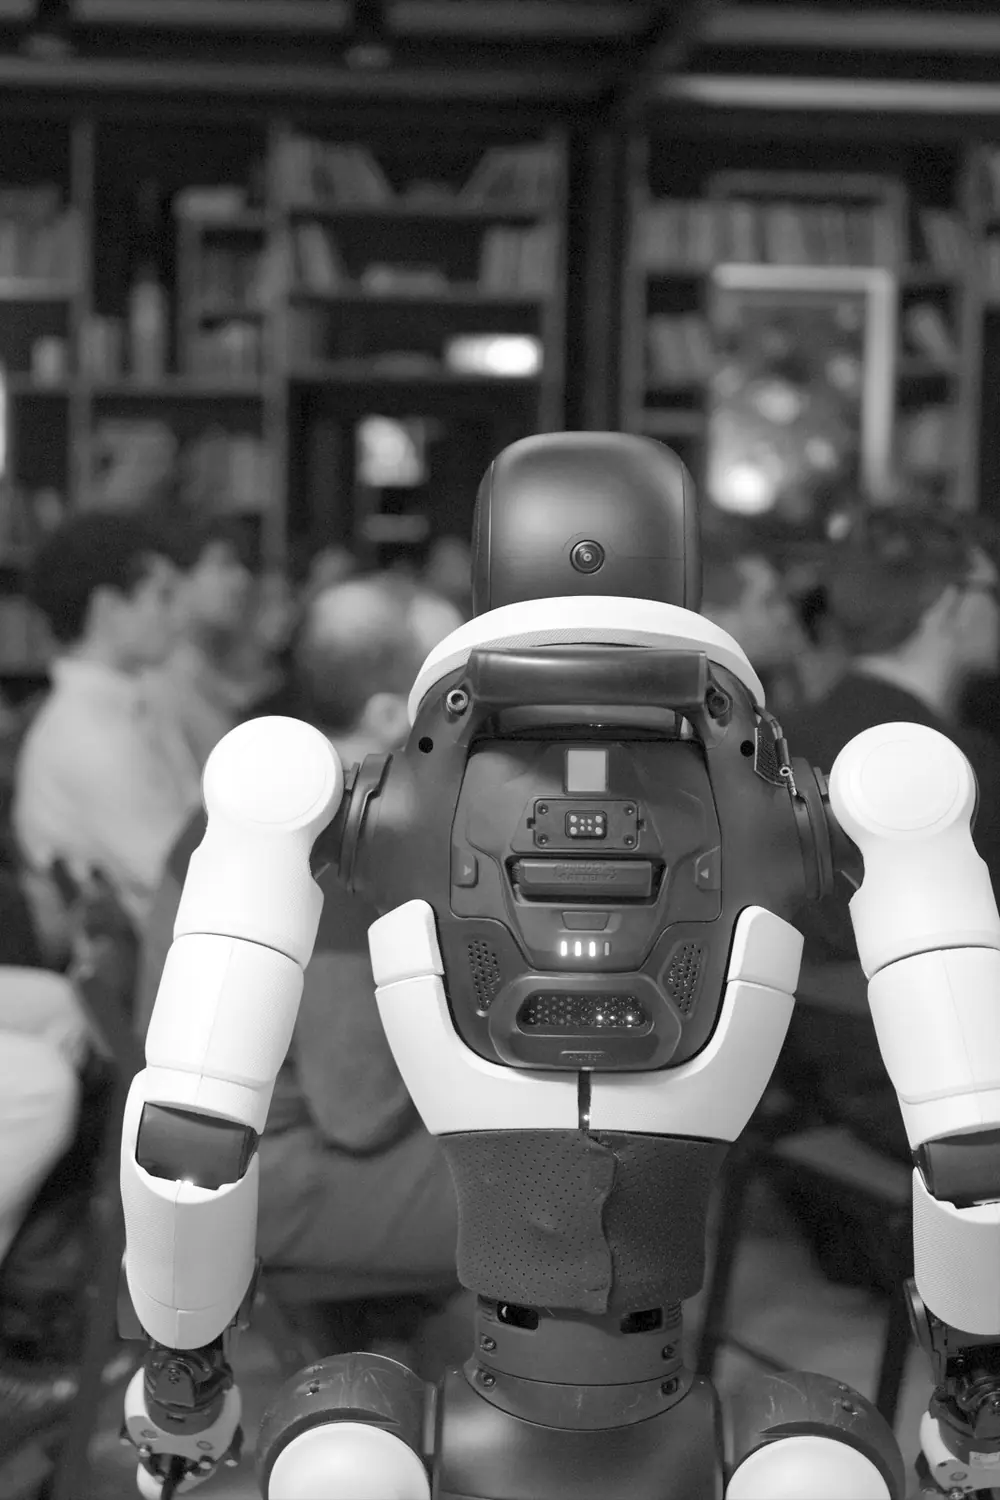
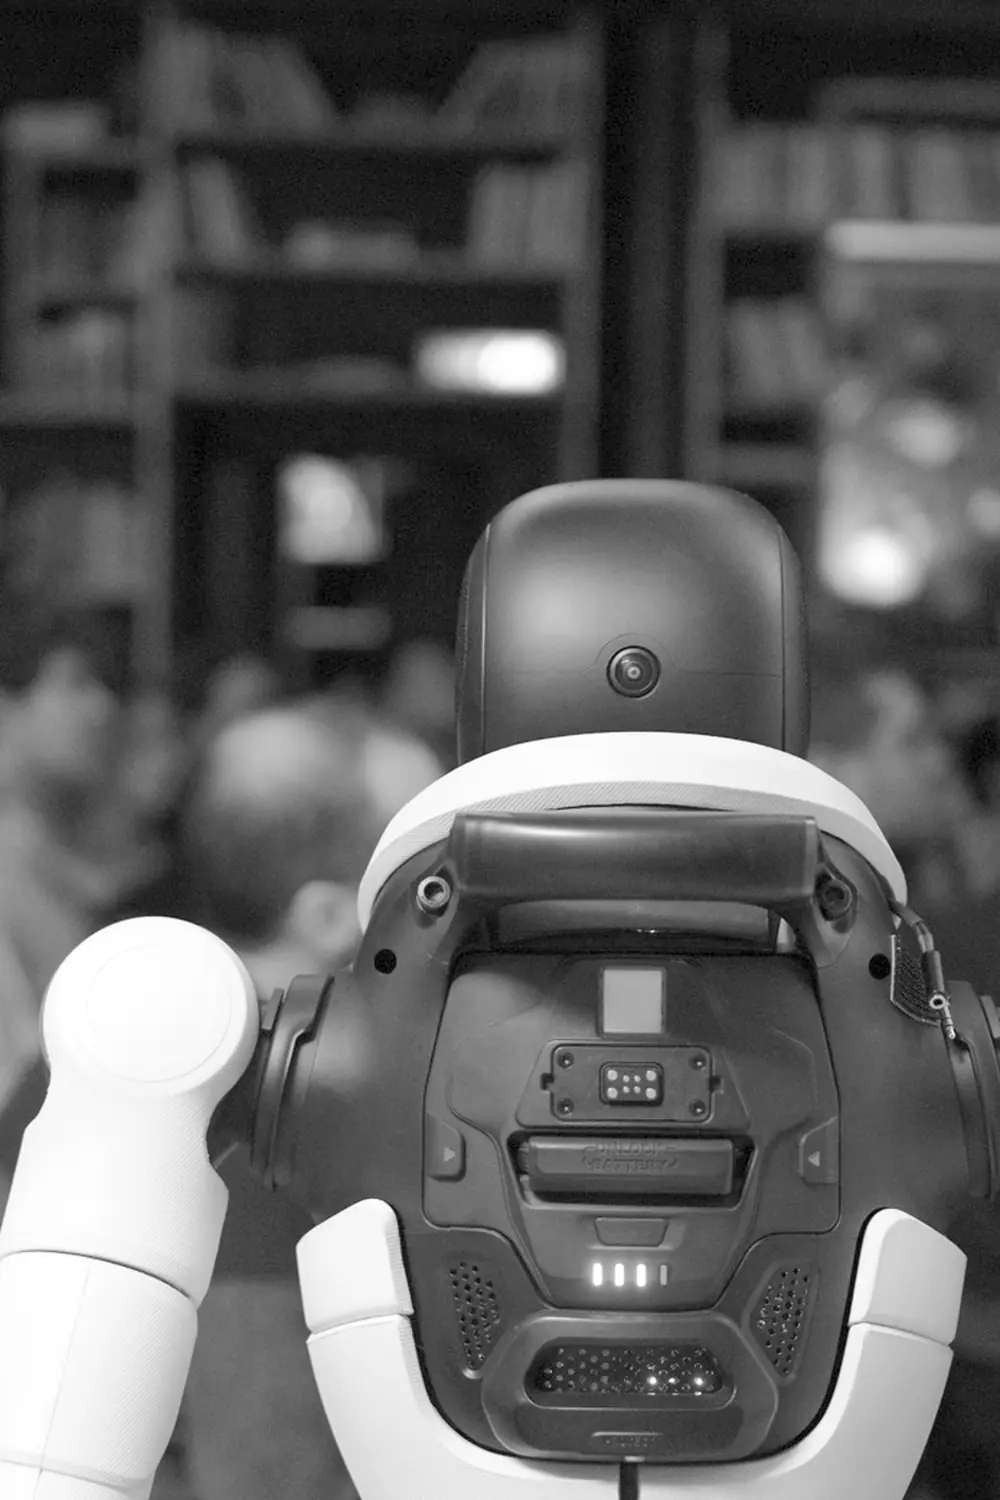
Phone hero: title back in the centre; frames recomposed so faces and robots sit above it
Claude-Session: https://claude.ai/code/session_01BZLxn37hPV3nyR5Dfttybs

diff --git a/0/index.html b/0/index.html
@@ -262,10 +262,10 @@ p a{text-decoration:underline;text-underline-offset:.15em;text-decoration-thickn
 .hero__cos .co img.co-integra{height:36px;filter:none}
 @media (max-width:640px){.hero__cos{gap:8px 18px;bottom:calc(var(--s2) + env(safe-area-inset-bottom))}.hero__cos .co{font-size:19px;gap:7px}.hero__cos .co img{height:24px}.hero__cos .co img.co-integra{height:26px}.hero__cos__label{font-size:11px}}
 
-/* phones: the photo keeps a real 2:3 frame in the upper part of the hero and fades into black under the title */
+/* phones: a real 2:3 frame pinned to the top, its subject composed above the centred title; it fades into black below */
 @media (orientation:portrait){
   .hero__track--v .slide{background:#000}
-  .hero__track--v .slide img{height:72%;object-position:center top;-webkit-mask-image:linear-gradient(#000 70%,transparent);mask-image:linear-gradient(#000 70%,transparent)}
+  .hero__track--v .slide img{height:78%;object-position:center top;-webkit-mask-image:linear-gradient(#000 72%,transparent);mask-image:linear-gradient(#000 72%,transparent)}
 }
 
 /* ---------- intro ---------- */
@@ -483,7 +483,7 @@ a.card:hover .photo,a.card:focus-visible .photo{transform:translateY(-8px)}
     <div class="slide"><img src="/img/0/v-2-8141.webp" alt="" loading="lazy" decoding="async"></div>
     <div class="slide"><img src="/img/0/v-3-8217.webp" alt="" loading="lazy" decoding="async"></div>
     <div class="slide"><img src="/img/0/v-4-8357.webp" alt="" loading="lazy" decoding="async"></div>
-    <div class="slide"><img src="/img/0/v-5-8035.webp" alt="" loading="lazy" decoding="async"></div>
+    <div class="slide"><img src="/img/0/v-5-8186.webp" alt="" loading="lazy" decoding="async"></div>
     <div class="slide"><img src="/img/0/v-6-8230.webp" alt="" loading="lazy" decoding="async"></div>
     <div class="slide"><img src="/img/0/v-7-8156.webp" alt="" loading="lazy" decoding="async"></div>
     <div class="slide"><img src="/img/0/v-8-8129.webp" alt="" loading="lazy" decoding="async"></div>
@@ -666,13 +666,7 @@ a.card:hover .photo,a.card:focus-visible .photo{transform:translateY(-8px)}
     set('--sc', Math.min(1, (H.width - 2 * gut) / (B.r - B.l), (H.height * 0.6) / (B.b - B.t)));
     B = bounds();
     const blockH = (B.b - B.t) + 24 + badgeH;
-    let top = H.top + (H.height - blockH) / 2 + H.height * 0.04;
-    // phones: the photo is the upper frame, so the title sits low, between the photo and the logos
-    if (matchMedia('(orientation: portrait)').matches) {
-      const cos = document.querySelector('.hero__cos');
-      const floor = cos ? cos.getBoundingClientRect().top - 20 : H.bottom - 40;
-      top = Math.max(H.top + H.height * 0.30, Math.min(H.top + H.height * 0.58, floor - blockH));
-    }
+    const top = H.top + (H.height - blockH) / 2 + H.height * 0.04;
     set('--tx', (H.left + H.width / 2 - (B.l + B.r) / 2) + 'px');
     set('--ty', (top - B.t) + 'px');
     hero.style.setProperty('--by', (top - H.top + (B.b - B.t) + 24) + 'px');

diff --git a/en/0/index.html b/en/0/index.html
@@ -262,10 +262,10 @@ p a{text-decoration:underline;text-underline-offset:.15em;text-decoration-thickn
 .hero__cos .co img.co-integra{height:36px;filter:none}
 @media (max-width:640px){.hero__cos{gap:8px 18px;bottom:calc(var(--s2) + env(safe-area-inset-bottom))}.hero__cos .co{font-size:19px;gap:7px}.hero__cos .co img{height:24px}.hero__cos .co img.co-integra{height:26px}.hero__cos__label{font-size:11px}}
 
-/* phones: the photo keeps a real 2:3 frame in the upper part of the hero and fades into black under the title */
+/* phones: a real 2:3 frame pinned to the top, its subject composed above the centred title; it fades into black below */
 @media (orientation:portrait){
   .hero__track--v .slide{background:#000}
-  .hero__track--v .slide img{height:72%;object-position:center top;-webkit-mask-image:linear-gradient(#000 70%,transparent);mask-image:linear-gradient(#000 70%,transparent)}
+  .hero__track--v .slide img{height:78%;object-position:center top;-webkit-mask-image:linear-gradient(#000 72%,transparent);mask-image:linear-gradient(#000 72%,transparent)}
 }
 
 /* ---------- intro ---------- */
@@ -483,7 +483,7 @@ a.card:hover .photo,a.card:focus-visible .photo{transform:translateY(-8px)}
     <div class="slide"><img src="/img/0/v-2-8141.webp" alt="" loading="lazy" decoding="async"></div>
     <div class="slide"><img src="/img/0/v-3-8217.webp" alt="" loading="lazy" decoding="async"></div>
     <div class="slide"><img src="/img/0/v-4-8357.webp" alt="" loading="lazy" decoding="async"></div>
-    <div class="slide"><img src="/img/0/v-5-8035.webp" alt="" loading="lazy" decoding="async"></div>
+    <div class="slide"><img src="/img/0/v-5-8186.webp" alt="" loading="lazy" decoding="async"></div>
     <div class="slide"><img src="/img/0/v-6-8230.webp" alt="" loading="lazy" decoding="async"></div>
     <div class="slide"><img src="/img/0/v-7-8156.webp" alt="" loading="lazy" decoding="async"></div>
     <div class="slide"><img src="/img/0/v-8-8129.webp" alt="" loading="lazy" decoding="async"></div>
@@ -666,13 +666,7 @@ a.card:hover .photo,a.card:focus-visible .photo{transform:translateY(-8px)}
     set('--sc', Math.min(1, (H.width - 2 * gut) / (B.r - B.l), (H.height * 0.6) / (B.b - B.t)));
     B = bounds();
     const blockH = (B.b - B.t) + 24 + badgeH;
-    let top = H.top + (H.height - blockH) / 2 + H.height * 0.04;
-    // phones: the photo is the upper frame, so the title sits low, between the photo and the logos
-    if (matchMedia('(orientation: portrait)').matches) {
-      const cos = document.querySelector('.hero__cos');
-      const floor = cos ? cos.getBoundingClientRect().top - 20 : H.bottom - 40;
-      top = Math.max(H.top + H.height * 0.30, Math.min(H.top + H.height * 0.58, floor - blockH));
-    }
+    const top = H.top + (H.height - blockH) / 2 + H.height * 0.04;
     set('--tx', (H.left + H.width / 2 - (B.l + B.r) / 2) + 'px');
     set('--ty', (top - B.t) + 'px');
     hero.style.setProperty('--by', (top - H.top + (B.b - B.t) + 24) + 'px');

diff --git a/en/index.html b/en/index.html
@@ -237,10 +237,10 @@ p a{text-decoration:underline;text-underline-offset:.15em;text-decoration-thickn
 .hero__cos .co img.co-integra{height:36px;filter:none}
 @media (max-width:640px){.hero__cos{gap:8px 18px;bottom:calc(var(--s2) + env(safe-area-inset-bottom))}.hero__cos .co{font-size:19px;gap:7px}.hero__cos .co img{height:24px}.hero__cos .co img.co-integra{height:26px}.hero__cos__label{font-size:11px}}
 
-/* phones: the photo keeps a real 2:3 frame in the upper part of the hero and fades into black under the title */
+/* phones: a real 2:3 frame pinned to the top, its subject composed above the centred title; it fades into black below */
 @media (orientation:portrait){
   .hero__track--v .slide{background:#000}
-  .hero__track--v .slide img{height:72%;object-position:center top;-webkit-mask-image:linear-gradient(#000 70%,transparent);mask-image:linear-gradient(#000 70%,transparent)}
+  .hero__track--v .slide img{height:78%;object-position:center top;-webkit-mask-image:linear-gradient(#000 72%,transparent);mask-image:linear-gradient(#000 72%,transparent)}
 }
 
 /* ---------- intro ---------- */
@@ -457,7 +457,7 @@ a.card:hover .photo,a.card:focus-visible .photo{transform:translateY(-8px)}
     <div class="slide"><img src="/img/0/v-2-8141.webp" alt="" loading="lazy" decoding="async"></div>
     <div class="slide"><img src="/img/0/v-3-8217.webp" alt="" loading="lazy" decoding="async"></div>
     <div class="slide"><img src="/img/0/v-4-8357.webp" alt="" loading="lazy" decoding="async"></div>
-    <div class="slide"><img src="/img/0/v-5-8035.webp" alt="" loading="lazy" decoding="async"></div>
+    <div class="slide"><img src="/img/0/v-5-8186.webp" alt="" loading="lazy" decoding="async"></div>
     <div class="slide"><img src="/img/0/v-6-8230.webp" alt="" loading="lazy" decoding="async"></div>
     <div class="slide"><img src="/img/0/v-7-8156.webp" alt="" loading="lazy" decoding="async"></div>
     <div class="slide"><img src="/img/0/v-8-8129.webp" alt="" loading="lazy" decoding="async"></div>
@@ -571,13 +571,7 @@ a.card:hover .photo,a.card:focus-visible .photo{transform:translateY(-8px)}
     set('--sc', Math.min(1, (H.width - 2 * gut) / (B.r - B.l), (H.height * 0.6) / (B.b - B.t)));
     B = bounds();
     const blockH = (B.b - B.t) + 24 + badgeH;
-    let top = H.top + (H.height - blockH) / 2 + H.height * 0.04;
-    // phones: the photo is the upper frame, so the title sits low, between the photo and the logos
-    if (matchMedia('(orientation: portrait)').matches) {
-      const cos = document.querySelector('.hero__cos');
-      const floor = cos ? cos.getBoundingClientRect().top - 20 : H.bottom - 40;
-      top = Math.max(H.top + H.height * 0.30, Math.min(H.top + H.height * 0.58, floor - blockH));
-    }
+    const top = H.top + (H.height - blockH) / 2 + H.height * 0.04;
     set('--tx', (H.left + H.width / 2 - (B.l + B.r) / 2) + 'px');
     set('--ty', (top - B.t) + 'px');
     hero.style.setProperty('--by', (top - H.top + (B.b - B.t) + 24) + 'px');

diff --git a/index.html b/index.html
@@ -237,10 +237,10 @@ p a{text-decoration:underline;text-underline-offset:.15em;text-decoration-thickn
 .hero__cos .co img.co-integra{height:36px;filter:none}
 @media (max-width:640px){.hero__cos{gap:8px 18px;bottom:calc(var(--s2) + env(safe-area-inset-bottom))}.hero__cos .co{font-size:19px;gap:7px}.hero__cos .co img{height:24px}.hero__cos .co img.co-integra{height:26px}.hero__cos__label{font-size:11px}}
 
-/* phones: the photo keeps a real 2:3 frame in the upper part of the hero and fades into black under the title */
+/* phones: a real 2:3 frame pinned to the top, its subject composed above the centred title; it fades into black below */
 @media (orientation:portrait){
   .hero__track--v .slide{background:#000}
-  .hero__track--v .slide img{height:72%;object-position:center top;-webkit-mask-image:linear-gradient(#000 70%,transparent);mask-image:linear-gradient(#000 70%,transparent)}
+  .hero__track--v .slide img{height:78%;object-position:center top;-webkit-mask-image:linear-gradient(#000 72%,transparent);mask-image:linear-gradient(#000 72%,transparent)}
 }
 
 /* ---------- intro ---------- */
@@ -457,7 +457,7 @@ a.card:hover .photo,a.card:focus-visible .photo{transform:translateY(-8px)}
     <div class="slide"><img src="/img/0/v-2-8141.webp" alt="" loading="lazy" decoding="async"></div>
     <div class="slide"><img src="/img/0/v-3-8217.webp" alt="" loading="lazy" decoding="async"></div>
     <div class="slide"><img src="/img/0/v-4-8357.webp" alt="" loading="lazy" decoding="async"></div>
-    <div class="slide"><img src="/img/0/v-5-8035.webp" alt="" loading="lazy" decoding="async"></div>
+    <div class="slide"><img src="/img/0/v-5-8186.webp" alt="" loading="lazy" decoding="async"></div>
     <div class="slide"><img src="/img/0/v-6-8230.webp" alt="" loading="lazy" decoding="async"></div>
     <div class="slide"><img src="/img/0/v-7-8156.webp" alt="" loading="lazy" decoding="async"></div>
     <div class="slide"><img src="/img/0/v-8-8129.webp" alt="" loading="lazy" decoding="async"></div>
@@ -571,13 +571,7 @@ a.card:hover .photo,a.card:focus-visible .photo{transform:translateY(-8px)}
     set('--sc', Math.min(1, (H.width - 2 * gut) / (B.r - B.l), (H.height * 0.6) / (B.b - B.t)));
     B = bounds();
     const blockH = (B.b - B.t) + 24 + badgeH;
-    let top = H.top + (H.height - blockH) / 2 + H.height * 0.04;
-    // phones: the photo is the upper frame, so the title sits low, between the photo and the logos
-    if (matchMedia('(orientation: portrait)').matches) {
-      const cos = document.querySelector('.hero__cos');
-      const floor = cos ? cos.getBoundingClientRect().top - 20 : H.bottom - 40;
-      top = Math.max(H.top + H.height * 0.30, Math.min(H.top + H.height * 0.58, floor - blockH));
-    }
+    const top = H.top + (H.height - blockH) / 2 + H.height * 0.04;
     set('--tx', (H.left + H.width / 2 - (B.l + B.r) / 2) + 'px');
     set('--ty', (top - B.t) + 'px');
     hero.style.setProperty('--by', (top - H.top + (B.b - B.t) + 24) + 'px');

diff --git a/README.md b/README.md
@@ -63,8 +63,8 @@ Event details for search engines (date, venue, speakers) live in the JSON-LD blo
 
     index.html, en/index.html   series page between meetups: "#1 coming soon", follow on Luma, 6 photos from #0, link to /0/
     0/index.html, en/0/index.html   permanent archive of #0: program as it ran, speakers (stage photos), all 27 photos, partners
-    img/0/      web copies of the #0 photos (h- landscape hero; v-N- portrait hero: hand-composed 2:3 frames shown in the
-                upper 72% of the phone hero, title sits below them; sp- speakers; g- gallery 900x600),
+    img/0/      web copies of the #0 photos (h- landscape hero; v-N- portrait hero: hand-composed 2:3 frames pinned to the top
+                of the phone hero (78% high), cropped so faces and robot heads sit above the centred title; sp- speakers; g- gallery 900x600),
                 brightened before the orange duotone because the room was dark
     brand/photos/0/   the 27 JPEGs (2400px) from the RAW files; gallery tiles link to them
     img/og-series-cs.jpg / -en.jpg   social preview of the homepage ("#1 coming soon"); /0/ keeps og.jpg
